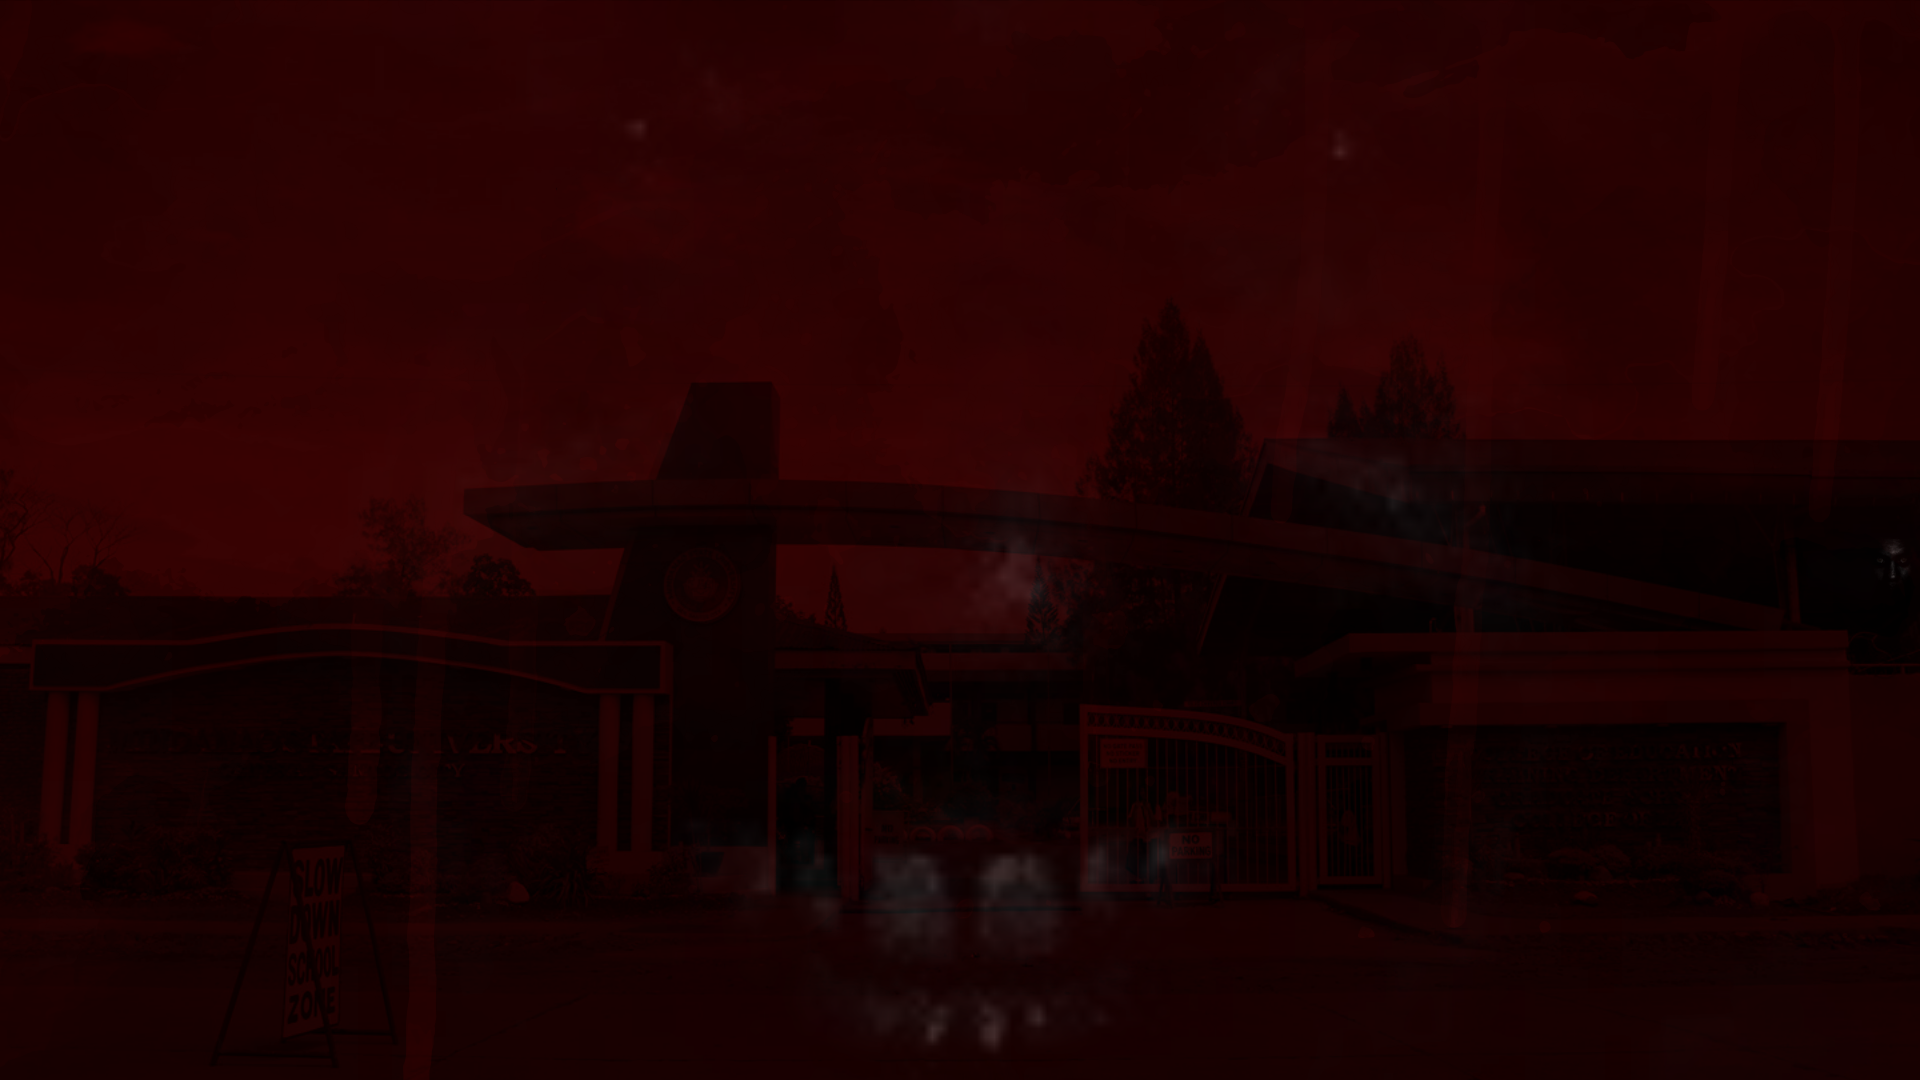
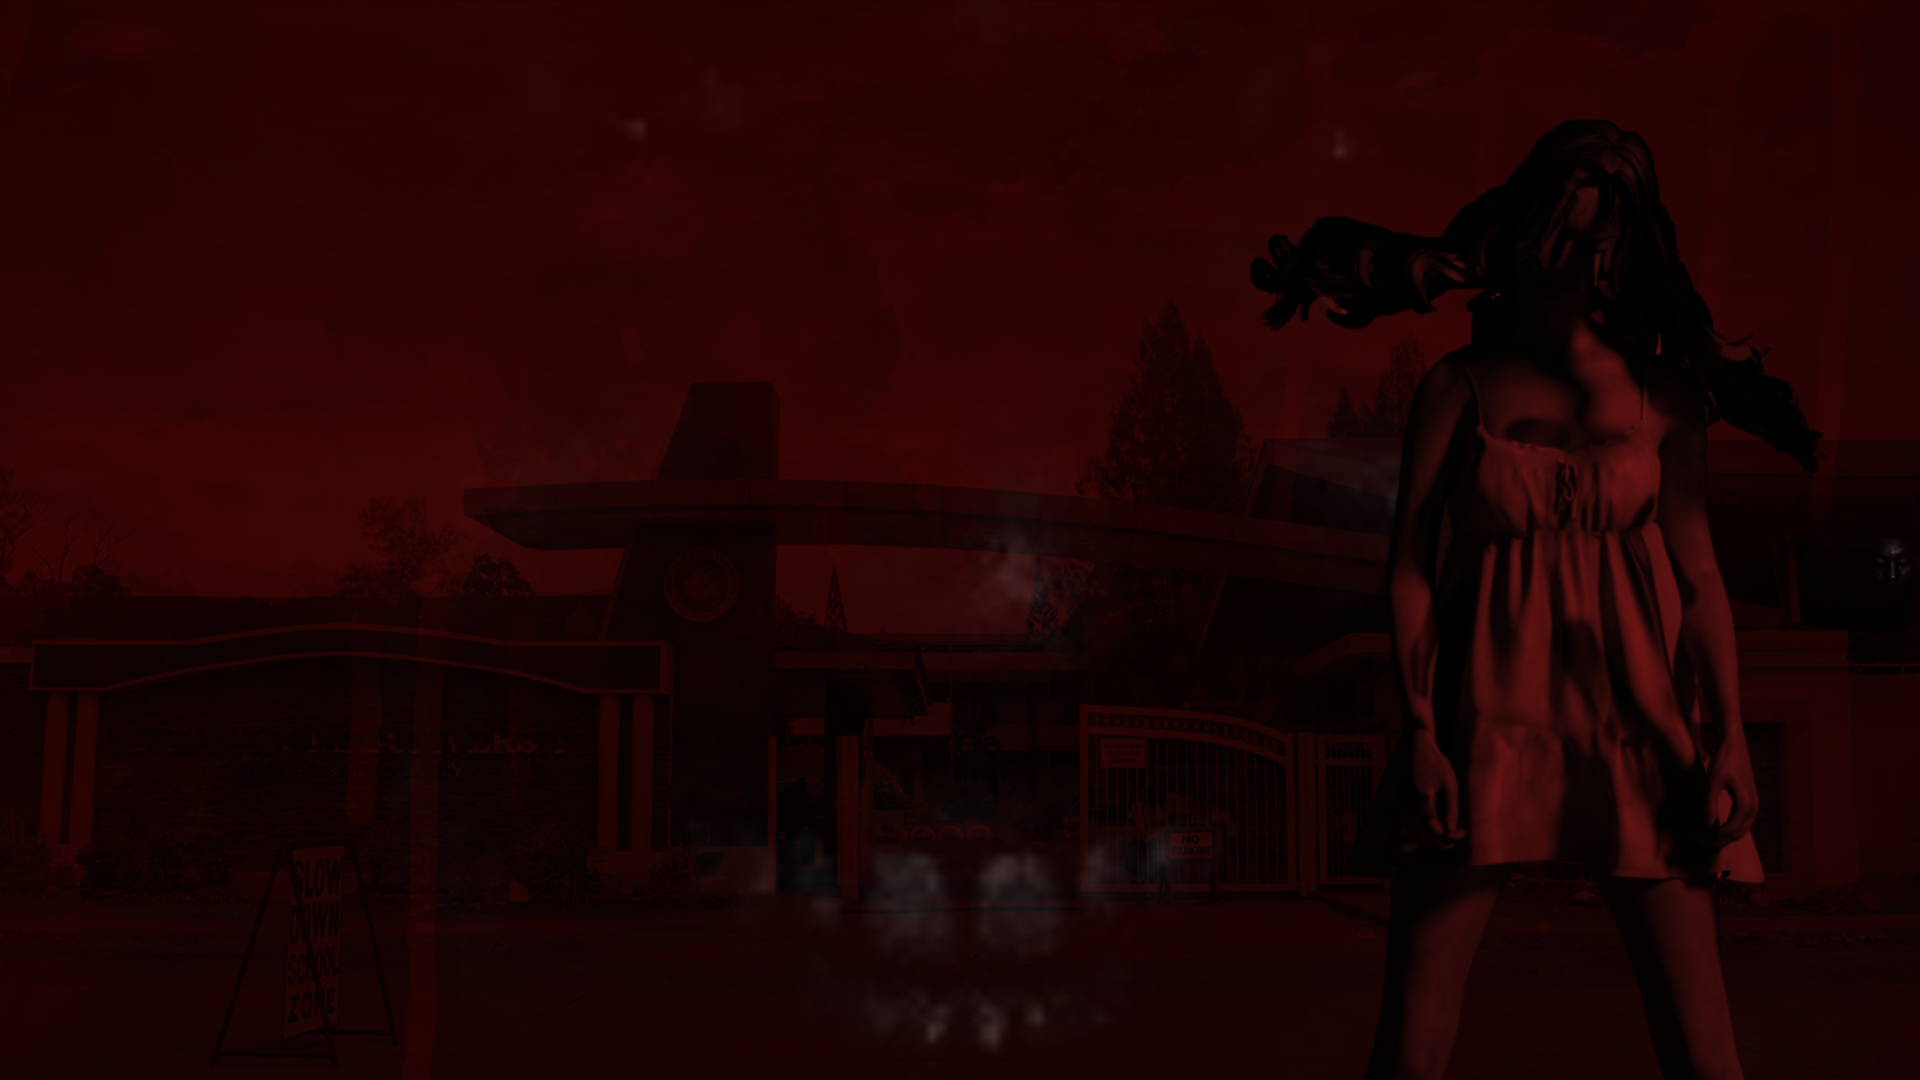
a

Changed region(s): [[0.6562, 0.0917, 0.9688, 1.0], [0.7188, 0.9167, 0.75, 0.9472]]

diff --git a/l1.py b/l1.py
@@ -102,8 +102,12 @@ class Level1():
 		if (posX >= -13 and not self.jumpscared and not game.isPlaying and self.jsCleanup == False):
 			self.jumpscared = True
 			self.timeEnd = task.time
+			for img in game.itemsImg:
+				img.setColorScale(1, 1, 1, 0)
 			for node in game.charNodes:
 				node.removeNode()
+			game.setBarVisibility(False)
+			gametext.Text.hideText(game.game_text, game)
 			gametext.Text.hideCH(game.game_text)
 			game.speedStop = True
 			rotToScare = game.camera.hprInterval(0.75, (270, 0, 0), blendType='easeIn')
@@ -111,6 +115,7 @@ class Level1():
 
 		if (task.time - self.timeEnd >= 0.75 and self.jumpscared and not game.isPlaying and self.jsCleanup == False):
 			game.video_inst.playVid(game.video_inst, game, 'assets/media/jumpscare1.avi')
+			game.skipText.setText('')
 
 		if (task.time - self.timeEnd >= 0.667+0.75 and self.jumpscared and self.jsCleanup == False):
 			game.video.removeNode()
@@ -118,6 +123,10 @@ class Level1():
 			game.speedStop = False
 			game.blackBg.destroy()
 			game.sound.stop()
+			game.setBarVisibility(True)
+			gametext.Text.showText(game.game_text, game)
+			for img in game.itemsImg:
+				img.setColorScale(0.25, 0.25, 0.25, 0.5)
 			game.isPlaying = False
 			self.jsCleanup = True
 

diff --git a/mainMenu.py b/mainMenu.py
@@ -16,8 +16,6 @@ class MainMenu():
 			game.musicActive = not game.musicActive
 			print(game.musicActive)
 		game.MMsensitivity = 0.025
-		game.scaleFactor = 3
-		game.scaleFactorLogo = 0.2
 	
 		game.cm = CardMaker('video')
 		#game.video = game.aspect2d.attachNewNode(game.cm.generate())
@@ -32,7 +30,7 @@ class MainMenu():
 			game.music.play()
 			game.musicPlaying = True
 
-		game.scaleFactor = 3
+		game.scaleFactor = 2.25
 		game.scaleFactorLogo = 1.5
 		x_offset = -0.75
 		

diff --git a/charSelect.py b/charSelect.py
@@ -53,7 +53,7 @@ class CharSelect():
 		game.girlSelect = DirectButton(frameTexture=GirlTexture, relief='flat', pressEffect=0, frameSize=(-1, 1, -1,1))
 		game.girlSelect.setTransparency(True)
 
-		charDistance = 0.9
+		charDistance = 0.75
 		game.boySelect.setPos(charDistance, 0, -0.2)
 		game.girlSelect.setPos(-charDistance, 0, -0.2)
 
